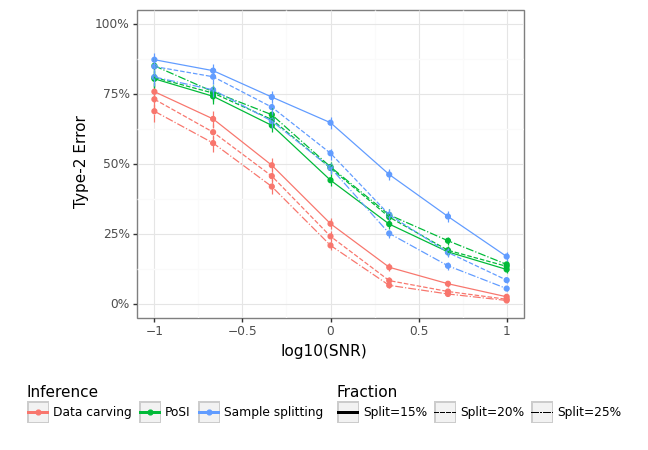
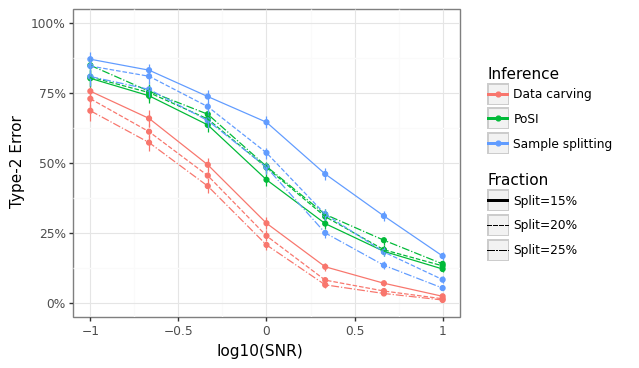
tweaking files for paper

diff --git a/examples/4_lasso.py b/examples/4_lasso.py
@@ -20,7 +20,7 @@ from sntn.utilities.utils import get_CI, pn_labeller
 # Set up simulation parameters
 # Dimension of data
 n, p = 100, 150
-s, k = 5, 10
+s = 5
 b0 = +1  # Intercept
 alpha = 0.1
 lam_max_frac = 0.725
@@ -171,8 +171,8 @@ gg_type2 = (pn.ggplot(dat_type2, pn.aes(x='snr10', y='err', color='mdl',linetype
             pn.labs(x='log10(SNR)', y='Type-2 Error') + 
             pn.scale_color_manual(name='Inference', values=colz2,labels=lambda x: [di_mdl.get(z) for z in x]) + 
             pn.scale_linetype_discrete(name='Fraction',labels=lambda x: [di_frac.get(z) for z in x] ) + 
-            pn.scale_y_continuous(labels=percent_format(),limits=[0,1]) + 
-            pn.theme(legend_position=(0.5,-0.10)))
+            pn.scale_y_continuous(labels=percent_format(),limits=[0,1]))
+            # pn.theme(legend_position=(0.5,-0.10)))
 gg_type2.save(os.path.join(dir_figures, 'lasso_type2.png'), width=5, height=4)
 
 

diff --git a/examples/3_marginal_screening.py b/examples/3_marginal_screening.py
@@ -149,8 +149,8 @@ gg_type2 = (pn.ggplot(dat_type2, pn.aes(x='snr10', y='err', color='mdl',linetype
             pn.labs(x='log10(SNR)', y='Type-2 Error') + 
             pn.scale_color_manual(name='Inference', values=colz2,labels=lambda x: [di_mdl.get(z) for z in x]) + 
             pn.scale_linetype_discrete(name='Fraction',labels=lambda x: [di_frac.get(z) for z in x] ) + 
-            pn.scale_y_continuous(labels=percent_format(),limits=[0,1]) + 
-            pn.theme(legend_position=(0.5,-0.10)))
+            pn.scale_y_continuous(labels=percent_format(),limits=[0,1]))
+            # pn.theme(legend_position=(0.5,-0.10)))
             # pn.facet_wrap('~frac_split',labeller=pn_labeller(frac_split=lambda x: di_frac.get(x,x))))
 gg_type2.save(os.path.join(dir_figures, 'marginal_screening_type2.png'), width=5, height=4)
 

diff --git a/examples/2_sample_mean.py b/examples/2_sample_mean.py
@@ -112,10 +112,10 @@ di_methods = {'split':'Sample-splitting', 'screen':'PoSI', 'carve':'Data carving
 # (i) How does power compare
 gg_power_comp = (pn.ggplot(res_type2, pn.aes(x='n', y='power', color='method')) + 
     pn.theme_bw()  + pn.geom_line(size=1) + 
-    pn.labs(y='Power', x='Samples for split') + 
+    pn.labs(y='Power', x='Sample size') + 
     pn.scale_color_discrete(name='Inference',labels=lambda x: [di_methods.get(z) for z in x]) + 
     pn.geom_hline(yintercept=alpha,linetype='--') + 
-    pn.scale_y_continuous(labels=percent_format()) + 
+    pn.scale_y_continuous(labels=percent_format(),limits=[0,1]) + 
     pn.facet_wrap('~mu', labeller=pn.label_both))
 gg_power_comp.save(os.path.join(dir_figures, 'power_mean_comp.png'),width=6,height=5)
 
